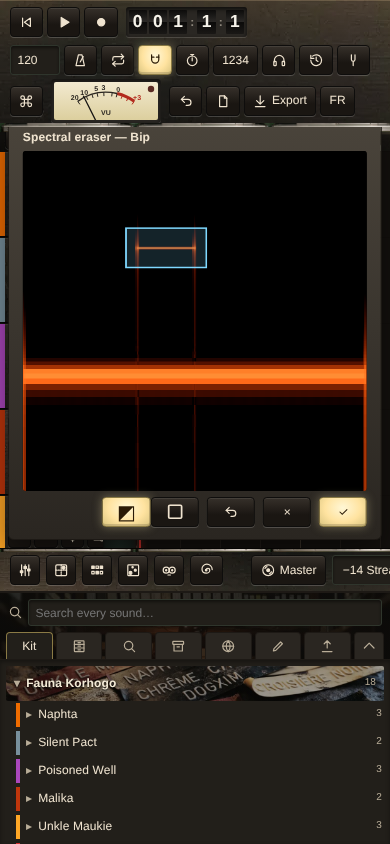
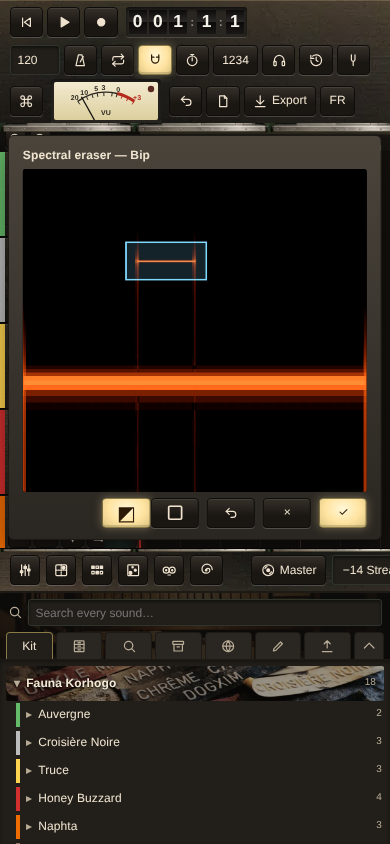
Fiche de terrain par clip, fenêtres tenues dans l'écran couché
Claude-Session: https://claude.ai/code/session_014nJuEKFVYaNP99iDbz3nC6

diff --git a/index.html b/index.html
@@ -205,8 +205,12 @@ dialog .col{display:flex;flex-direction:column;gap:6px}
 #sheet{display:none;position:absolute;left:50%;bottom:8px;transform:translateX(-50%);z-index:20;width:min(94%,460px);background:linear-gradient(var(--panel-hi),var(--panel-lo));border:1px solid #1d1915;border-radius:6px;padding:12px 14px;box-shadow:0 12px 30px rgba(0,0,0,.5);flex-direction:column;gap:6px}
 #sheet.on{display:flex}
 @keyframes boxTp{0%,15%{transform:none}85%,100%{transform:translateX(var(--o))}}
+.clip.meta::after{content:"";position:absolute;right:4px;top:4px;width:8px;height:8px;border-radius:50%;background:#ffe3a0;box-shadow:0 0 6px #ffa726}
+#sheet .fs{display:grid;grid-template-columns:auto 1fr;gap:5px 8px;align-items:center}#sheet .fs input,#sheet .fs textarea{width:100%;min-width:0;background:#0b0908;color:var(--legend);border:1px solid #3a2f25;border-radius:3px;padding:5px 6px;font:inherit}
 .box{padding:6px 4px 8px;border-bottom:1px solid rgba(255,222,170,.08)}.box .bh{display:flex;align-items:center;gap:8px}.box .gl{font:700 22px/1 "Barlow Semi Condensed",serif;color:#ffe3a0;min-width:1.2em;text-align:center}.box .tt{flex:1;min-width:0;white-space:nowrap;overflow:hidden;color:var(--legend)}.box .bh button{flex:none}.box .bf{display:block;color:var(--legend-dim);margin:2px 0 4px 2em}
 #sheet.wide{width:min(96%,1100px)}
+#sheet{max-height:calc(100% - 16px);overflow:auto}
+@media (max-height:520px){#sheet .fs{grid-template-columns:auto 1fr auto 1fr}#sheet .fs textarea{height:2.2em}}
 #sheet canvas.spe{width:100%;height:min(46vh,340px);touch-action:none;cursor:crosshair;border-radius:3px;background:#070606}
 #sheet b{font-weight:600}
 #sheet label{display:flex;flex-direction:column;gap:2px;color:var(--legend-dim)}
@@ -1180,7 +1184,7 @@ async function renderOffline(onlyTrack,trimDb=0){
 }
 function trimTail(b){let last=0;for(let c=0;c<b.numberOfChannels;c++){const d=b.getChannelData(c);for(let i=d.length-1;i>last;i--)if(Math.abs(d[i])>1e-4){last=i;break}}const n=Math.min(b.length,last+Math.floor(b.sampleRate*.05));const o=new AudioBuffer({numberOfChannels:b.numberOfChannels,length:Math.max(1,n),sampleRate:b.sampleRate});for(let c=0;c<b.numberOfChannels;c++)o.copyToChannel(b.getChannelData(c).subarray(0,n),c);return o}
 const stamp=()=>"studio-"+new Date().toISOString().slice(0,16).replace(/[:T]/g,"-");
-function creditsTxt(used){const cred=[...used].filter(s=>s.credit);if(!cred.length)return null;return(lang==="fr"?"Sons utilisés":"Sounds used")+"\n\n"+cred.map(s=>`"${s.credit.title}" — ${s.credit.author} — ${s.credit.license} — ${s.credit.url}`).join("\n")+"\n"}
+function creditsTxt(used){const cred=[...used].filter(s=>s.credit);const F=lang==="fr";const sheets=state.tracks.flatMap(t=>t.clips.filter(c=>c.meta).map(c=>`${t.name} · ${fmtT(c.start)} — ${metaLine(c.meta)}`));if(!cred.length&&!sheets.length)return null;return(cred.length?(F?"Sons utilisés":"Sounds used")+"\n\n"+cred.map(s=>`"${s.credit.title}" — ${s.credit.author} — ${s.credit.license} — ${s.credit.url}`).join("\n")+"\n":"")+(sheets.length?"\n"+(F?"Fiches de terrain":"Field sheets")+"\n\n"+sheets.join("\n")+"\n":"")}
 async function masteredRender(){
   let trim=0,r=await renderOffline(null,0);if(!r)return null;const m=scaledM(state.masterPreset,state.mInt,state.mEq);
   if(state.target!=="off"&&state.target!=null){for(let k=0;k<4;k++){const l=await lufsOf(r.b);const diff=+state.target-l;if(!isFinite(l)||Math.abs(diff)<.15)break;trim+=diff;r=await renderOffline(null,trim)}}
@@ -1559,7 +1563,7 @@ function renderActionBar(){
   const one=sel.length===1?sel[0]:null,B=(ic,lbl,fn,dis)=>{const b=el("button",{title:lbl,class:dis?"dis":""},icon(ic),el("span",{},lbl));b.onclick=()=>{if(!dis)fn()};return b};
   const m=regionMore(sel),at=()=>{const r=bar.getBoundingClientRect();return[r.left+r.width/2,r.top-10]};
   const main=[B("del",t("del"),delSel),B("dup",t("copy"),()=>{const[,c]=sel[0];clipboard={...c};dupSel()}),B("loop","Loop",()=>edit(()=>{for(const[tr,c]of sel)tr.clips.push({...c,id:uid(),start:c.start+c.len})})),B("cut",t("slice"),splitSel)];
-  const more=[B("erase",lang==="fr"?"Gomme spectrale":"Spectral eraser",()=>eraseSheet(sel),!one),B("tune",lang==="fr"?"Échelle":"Scale",()=>scaleSheet(sel),!one),B("down",lang==="fr"?"Tranches":"Slices",()=>exportSlices(sel),!one),B("shift",t("shift"),m.shift),B("gain","Gain",m.gain),B("tune",t("transposeS"),m.transpose,!one),B("stretch","Timestretch",m.stretch,!one),B("fade",t("fades"),m.fade),B("denoise",t("denoise"),m.denoise,!one),B("rev",t("reverse"),m.reverse),
+  const more=[B("field",lang==="fr"?"Fiche de terrain":"Field sheet",()=>fieldSheet(sel),!one),B("erase",lang==="fr"?"Gomme spectrale":"Spectral eraser",()=>eraseSheet(sel),!one),B("tune",lang==="fr"?"Échelle":"Scale",()=>scaleSheet(sel),!one),B("down",lang==="fr"?"Tranches":"Slices",()=>exportSlices(sel),!one),B("shift",t("shift"),m.shift),B("gain","Gain",m.gain),B("tune",t("transposeS"),m.transpose,!one),B("stretch","Timestretch",m.stretch,!one),B("fade",t("fades"),m.fade),B("denoise",t("denoise"),m.denoise,!one),B("rev",t("reverse"),m.reverse),
     B("fuse",t("fuseS"),fuse,sel.length<2),B("lab",t("atelierS"),()=>{const[x,y]=at();atelier(one[0],one[1],x,y)},!one),B("split2",t("separateS"),()=>{const[x,y]=at();sepMenu(one[0],one[1],x,y)},!one)];
   const tog=el("button",{title:t("more"),class:abarMore?"on":""},el("b",{style:"font-size:1.3em;line-height:1"},"⋯"),el("span",{},t("more")));tog.onclick=()=>{abarMore=!abarMore;renderActionBar()};
   bar.replaceChildren(...(abarMore?more:main),tog);
@@ -1802,7 +1806,7 @@ function specOf(s,rev){const key=rev?"_specR":"_spec";if(s[key]!==undefined)retu
   return s[key]={F,B,v:out,max:mx}}
 function clipEl(tr,c){
   const s=lib.get(c.snd);const w=Math.max(4,c.len*state.pps);
-  const e=el("div",{"data-id":c.id,class:"clip"+(state.sel===c.id||multi.has(c.id)?" sel":"")+(c.mute?" muted":""),style:`left:${c.start*state.pps}px;width:${w}px;--ink:${INK(tr.color)}`});
+  const e=el("div",{"data-id":c.id,...(c.meta?{title:metaLine(c.meta)}:{}),class:"clip"+(c.meta?" meta":"")+(state.sel===c.id||multi.has(c.id)?" sel":"")+(c.mute?" muted":""),style:`left:${c.start*state.pps}px;width:${w}px;--ink:${INK(tr.color)}`});
   e.append(el("b",{},(c.rev?"◂ ":"")+(c.name||(s?s.name:"?"))+(c.gain&&Math.abs(c.gain-1)>.01?` ${(20*Math.log10(c.gain)).toFixed(1)}dB`:"")));
   if(s){const pk=c.rev?reversed(s).peaks:s.peaks,dur=s.buffer.duration,o0=c.rev?dur-(c.off+c.len):c.off;
     const cv=document.createElement("canvas");const H=60;cv.width=Math.min(4000,Math.ceil(w));cv.height=H;const g=cv.getContext("2d");g.fillStyle=INK(tr.color);g.globalAlpha=.72;
@@ -2626,7 +2630,7 @@ function yinTrack(b,from,len){const sr=b.sampleRate,d=b.getChannelData(0),W=Math
 function scaleSheet(sel){const[tr,c]=sel[0]||[];const s=c&&lib.get(c.snd);if(!s)return;const f0=yinTrack(s.buffer,c.off,c.len);const sh=$("#sheet");
   if(!f0.length){toast(lang==="fr"?"Aucune hauteur nette":"No clear pitch");return}
   const ref=+localStorage.getItem("st.ref")||440,cents=f0.map(f=>((1200*Math.log2(f/ref)%1200)+1200)%1200),H=new Float32Array(120);cents.forEach(x=>H[Math.floor(x/10)%120]++);
-  const sm=H.map((v,i)=>(H[(i+119)%120]+2*v+H[(i+1)%120])/4),mx=Math.max(...sm),peaks=[];sm.forEach((v,i)=>{if(v>mx*.18&&v>=sm[(i+119)%120]&&v>=sm[(i+1)%120]){const c0=i*10+5,w=cents.map(x=>((x-c0+1800)%1200)-600).filter(x=>Math.abs(x)<25);peaks.push(Math.round((c0+(w.length?w.reduce((p,q)=>p+q,0)/w.length:0)+1200)%1200))}});
+  const sm=H.map((v,i)=>(H[(i+119)%120]+2*v+H[(i+1)%120])/4),mx=Math.max(...sm),peaks=[];sm.forEach((v,i)=>{if(v>mx*.18&&v>=sm[(i+119)%120]&&v>=sm[(i+1)%120]){const c0=i*10+5,w=cents.map(x=>((x-c0+1800)%1200)-600).filter(x=>Math.abs(x)<25);peaks.push(Math.round((c0+(w.length?w.reduce((p,q)=>p+q,0)/w.length:0)+1200)%1200))}});{const u=dedupC(peaks);peaks.length=0;peaks.push(...u)}
   const cv=el("canvas",{style:"width:100%;height:120px"}),sc=el("select",{},...Object.keys(SCALES).map(k=>el("option",{value:k},k)));sc.value=localStorage.getItem("st.scale")||"12-TET";
   const draw=()=>{const W=cv.width=cv.clientWidth*2,Hh=cv.height=240,g=cv.getContext("2d");g.clearRect(0,0,W,Hh);g.fillStyle="rgba(0,0,0,.35)";g.fillRect(0,0,W,Hh);
     SCALES[sc.value].forEach(x=>{g.fillStyle="rgba(79,195,247,.55)";g.fillRect(x/1200*W,0,2,Hh)});
@@ -2761,6 +2765,21 @@ function boxDrawer(){const F=lang==="fr",d=el("details",{class:"kitg"},el("summa
       gd.append(el("div",{class:"box"},el("div",{class:"bh"},el("b",{class:"gl"},B.l),el("span",{class:"tt"},"tribute to "+B.t),go),el("small",{class:"bf"},fx+(B.bpm?" · "+B.bpm+" bpm":B.free?(F?" · en secondes":" · in seconds"):"")),chips))});
     d.append(gd)});
   d.addEventListener("toggle",()=>requestAnimationFrame(()=>d.querySelectorAll(".box .tt").forEach(t=>{if(t._tp||t.scrollWidth<=t.clientWidth+1)return;t._tp=1;const o=t.scrollWidth-t.clientWidth;const sp=el("span",{style:`display:inline-block;animation:boxTp ${Math.max(4,o/12)}s ease-in-out infinite alternate;--o:-${o}px`},t.textContent);t.replaceChildren(sp)})),true);return d}
+
+/* fiche de terrain d'un clip : lieu, date, musiciens, fonction, saison, lutherie, accordage mesuré en cents, texte et traduction ; elle suit le clip et part dans le fichier des crédits */
+const META_K=[["place","Lieu","Place"],["date","Date","Date"],["who","Musiciens, ensemble","Musicians, ensemble"],["func","Fonction, rite, occasion","Function, rite, occasion"],["season","Saison","Season"],["inst","Instruments, lutherie","Instruments, making"],["tuning","Accordage (cents)","Tuning (cents)"],["text","Texte chanté","Sung text"],["trans","Traduction","Translation"]];
+function dedupC(a){const o=[];[...a].sort((x,y)=>x-y).forEach(x=>{if(!o.some(y=>Math.min(Math.abs(x-y),1200-Math.abs(x-y))<20))o.push(x)});return o}
+function metaLine(m){return META_K.filter(([k])=>m[k]).map(([k,fr,en])=>(lang==="fr"?fr:en)+" : "+m[k]).join(" · ")}
+function fmtT(t){const m=Math.floor(t/60);return m+":"+String(Math.floor(t%60)).padStart(2,"0")}
+function fieldSheet(sel){const[tr,c]=sel[0]||[];if(!c)return;const F=lang==="fr",sh=$("#sheet"),m={...(c.meta||{})},ins={};
+  const grid=el("div",{class:"fs"},...META_K.flatMap(([k,fr,en])=>{const i=el(k==="text"||k==="trans"?"textarea":"input",{rows:"2",placeholder:F?fr:en});i.value=m[k]||"";ins[k]=i;return[el("small",{},F?fr:en),i]}));
+  const meas=el("button",{title:F?"Mesurer l'accordage du clip":"Measure the clip's tuning"},icon("tune"));meas.onclick=()=>{const s=lib.get(c.snd);if(!s)return;const f0=yinTrack(s.buffer,c.off,c.len);if(!f0.length){toast(F?"Aucune hauteur nette":"No clear pitch");return}
+    const ref=+localStorage.getItem("st.ref")||440,cents=f0.map(f=>((1200*Math.log2(f/ref)%1200)+1200)%1200),H=new Float32Array(120);cents.forEach(x=>H[Math.floor(x/10)%120]++);const sm=H.map((v,i)=>(H[(i+119)%120]+2*v+H[(i+1)%120])/4),mx=Math.max(...sm),pk=[];
+    sm.forEach((v,i)=>{if(v>mx*.18&&v>=sm[(i+119)%120]&&v>=sm[(i+1)%120]){const c0=i*10+5,w=cents.map(x=>((x-c0+1800)%1200)-600).filter(x=>Math.abs(x)<25);pk.push(Math.round((c0+(w.length?w.reduce((p,q)=>p+q,0)/w.length:0)+1200)%1200))}});
+    ins.tuning.value=dedupC(pk).join(", ")+" (La "+ref+" Hz)"};
+  const close=()=>{sh.classList.remove("on","wide");sh.replaceChildren()};
+  const ok=()=>{const nm={};META_K.forEach(([k])=>{const v=ins[k].value.trim();if(v)nm[k]=v});edit(()=>{if(Object.keys(nm).length)c.meta=nm;else delete c.meta});close()};
+  sh.classList.add("wide");sh.replaceChildren(el("b",{},(F?"Fiche de terrain — ":"Field sheet — ")+(c.name||lib.get(c.snd)?.name||"")),grid,el("div",{class:"row"},meas,el("button",{onclick:close},"×"),el("button",{class:"on",onclick:ok},"✓")));sh.classList.add("on")}
 </script>
 </body>
 </html>

diff --git a/README.md b/README.md
@@ -21,6 +21,7 @@ https://mauktenieb.github.io/studio/
 - Room reverbs modelled from early reflections and frequency-dependent decay: closet, bathroom, kitchen, bedroom, living room, vocal booth, studio, classroom, car, stairwell, parking garage, club, theatre, concert hall, church, cathedral, cave, tunnel, plate, spring.
 - Tempo, metronome, count-in, snap to the sixteenth, loop region drawn on the ruler, chromatic tuner, lyrics pad.
 - Sampler colours (SP-1200, MPC60, ASR-10, S950), sub octave with mono lows, large spaces (cave, silo, cathedral) with a hold up to one minute, dub siren and analog laser noise boxes.
+- Field sheet per clip (place, date, musicians, function, season, instruments, measured tuning in cents, sung text, translation), exported with the credits.
 - Artist boxes: 26 Greek-letter boxes, each a tribute to an artist named by the annexes or by Musik; one tap sets track racks, master chain, tempo or seconds, swing, sequencer, dub feedback, then offers sounds to search and gestures for the selected clip. Freesound's Broad Sound Taxonomy and Internet Archive's large free collections (78 rpm records, old radio, broadcasts, read books, rites, NASA, Free Music Archive).
 - Tempo fitted to video cuts and field notes; spectral eraser and repair on boxes drawn over the spectrogram.
 - Stage in real distances (6 m wide, 14 m deep): each object's sound takes the time of the air to arrive, so a fast move bends its pitch (Doppler). The object reddens moving away, turns blue coming closer.
@@ -100,3 +101,5 @@ Le rack reçoit la couleur des échantillonneurs SP-1200, MPC60, ASR-10 et S950,
 Le tempo peut se caler sur les coupes vidéo et les notes de terrain : les temps forts tombent sur l'image. La gomme spectrale du menu d'un clip efface ou répare les zones encadrées sur son spectrogramme.
 
 L'onglet Kit ouvre 26 boîtes d'artistes, sous lettres grecques, chacune « tribute to » un artiste : power electronics, dark ambient, hip-hop, IDM, sound design, dub, musique à l'image, instruments du monde, ethnomusicologie. Une touche prépare le studio selon ses procédés ; la boîte propose ensuite les sons à chercher et les gestes à faire sur un clip. Les collections ajoutent la taxonomie officielle de Freesound ; Internet Archive ajoute les 78 tours (dont 40 000 de jazz), la radio ancienne, les émissions, les livres lus, les rites et cultes, la NASA et le Free Music Archive.
+
+Chaque clip reçoit une fiche de terrain : lieu, date, musiciens, fonction, saison, lutherie, accordage mesuré en cents, texte chanté et traduction. La fiche part dans le fichier des crédits.

diff --git a/REQUESTS.md b/REQUESTS.md
@@ -68,6 +68,8 @@ Critères de qualité appliqués à chaque lot : direction artistique, réalisme
 - Taxonomie officielle de Freesound (5 catégories, 23 sous-catégories, d'après le dépôt MTG/BroadSoundTaxonomy) dans les collections.
 - Grandes collections d'Internet Archive sous licence libre : 78 tours (70 000 disques, dont 40 000 de jazz), 78 · blues, 78 · monde, radio ancienne, émissions, livres lus, rites et cultes, NASA, Free Music Archive.
 
+- Fiche de terrain d'un clip (menu du clip) : lieu, date, musiciens, fonction, saison, lutherie, accordage mesuré en cents, texte chanté, traduction. Un point lumineux marque le clip ; la fiche part dans le fichier des crédits.
+
 ## À trancher par Mauk Tenieb
 
 - Figurines 3D des pistes 01 à 18 : elles restent en 3D, comme demandé ; la règle photographique de la DA appelle des portraits photographiques. Décision réservée à l'auteur.
